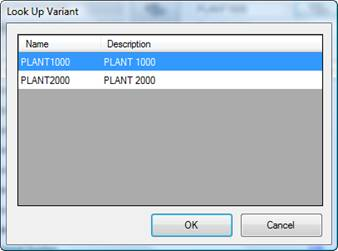
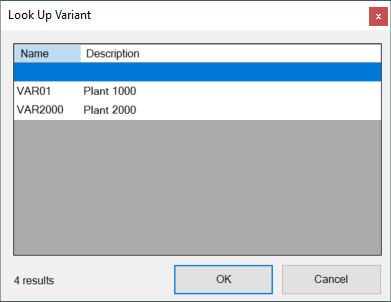
de pt.1

diff --git a/_includes/_content/de/xis-specific/query/varianten-anwenden.md b/_includes/_content/de/xis-specific/query/varianten-anwenden.md
@@ -1,9 +1,46 @@
-Um eine der hinterlegten Varianten anzuwenden, klicken Sie im Editor auf das Fernglas neben der Variantenangabe. 
-![Use-Variants-01](/img/content/Use-Variants-01.png){:class="img-responsive"}
 
-Ein entsprechendes Selektionsfenster öffnet sich, in dem eine Variante gewählt werden kann.
+### Varianten und Selektionen
 
-![Use-Variants-02](/img/content/Use-Variants-02.png){:class="img-responsive"}
+Die meisten Queries erlauben die Eingabe von Selektionen vor Ausführung der Query.
+Selektionen limitieren die Ausgabe der Query, sodass nur Daten die der Selektion entsprechen ausgegeben werden.
 
-Um die Variante wieder zu entfernen, klicken Sie auf den Button mit dem roten X.
+Eine Variante mit Selektionen kann in SAP im Selektionsbildschirm einer Query erstellt werden.
+Der Zweck einer Variante ist es, Selektionen zu speichern.
+Das minimiert die Eingabe von Selektionen, wenn Sie Queries ausführen.
+
+{: .box-note }
+**Hinweis:** Manuelle Selektionen und Varianten können kombiniert werden. Manuelle Selektionen überschreiben Selektionen in Varianten.
+
+![Report-Variants-Section](/img/content/Report-Variants-Selection.png){:class="img-responsive"}
+
+#### Eine Variante wählen
+
+1. Klicken Sie auf das kleine **[Fernglassymbol]** (1). Das Fenster "Look Up Variant" öffnet sich.
+![Query-Variant-02](/img/content/Query-Variant-02.png){:class="img-responsive"}
+2. Wählen Sie eine Variante aus der Liste der verfügbaren Varianten aus.
+3. Bestätigen Sie Ihre Eingabe mit **[OK]**.
+
+Um eine Variante zu entfernen, klicken Sie **[X]** (2).
+
+{: .box-tip }
+**Tipp:** Sie können eine Variante über einen Parameter in der Extraktions-URL dynamisieren. 
+
+#### Selektionen bearbeiten
+
+Dieser Abschnitt bezieht sich auf den Selektionsbildschirm von Queries in SAP.
+Einige Selektionsfelder haben nur technische Bezeichnungen und keine Beschreibungen.
+Um zu verstehen, welche Felder welchen Feldern in SAP entsprechen, prüfen Sie den Selektionsbildschirm in SAP. <br>
+Klicken Sie auf ein Selektionsfeld und drücken Sie die F1-Taste. Dadurch wird die technische Bezeichnung des Selektionsfelds angezeigt.
+
+1. Klicken Sie neben den Selektionen, die Sie bearbeiten möchten auf **[Edit]** (3). Das Fenster "Edit Range" öffnet sich.
+![Query-Selection-Parameters-02](/img/content/Selection-Options-Fill-02.png){:class="img-responsive"}
+2. Wählen Sie, ob die Selektion in der Extraktion inkludiert oder exkludiert werden soll (4).
+3. Wählen Sie einen Operator (*Equal*, *GreaterThan*, etc.) von der Dropdown-Liste *Option* (5). 
+4. Geben Sie die Selektion in den *Low* und *High* Feldern ein. Das *High* Feld ist nur aktiv, wenn *between* oder *not between* als Operator ausgewählt wurde.
+5. Klicken Sie auf **[OK]** (6), um die Selektion zu bestätigen.
+
+Um eine Selektion zu löschen, klicken Sie auf den Button in der linken unteren Ecke (7).
+
+{: .box-note }
+**Hinweis:** Um Variablen als Selektionsparameter zu verwenden, stellen Sie vor den Namen der Variable ein @-Symbol, z.B. `@lowthres`.
 

diff --git a/_includes/_content/de/sap-queries/einer-query.md b/_includes/_content/de/sap-queries/einer-query.md
@@ -1,21 +1,9 @@
-Erstellen Sie mit Hilfe des Designers eine neue Extraktion vom Typ Query. Der folgende Dialog öffnet sich. 
-
-![Define-Query-Extraction-Data-Source](/img/content/Define-Query-Extraction-Data-Source.png){:class="img-responsive list-img"}
-
-
-Klicken Sie auf den Suchen-Button, um eine Query zu suchen. Eine Query wird durch Angabe des Arbeitsbereiches, der Benutzergruppe und des Query-Namens eindeutig identifiziert. Selbstverständlich sind bei der Suche Wildcards erlaubt. Bestätigen Sie die Auswahl mit *OK*.
-
-![Look-Up-Query](/img/content/xu/xu_query_look-up.png){:class="img-responsive"}
-
-Im Hauptdialog werden nun die so genannten Select-Options angezeigt. Das sind die Selektionskriterien, die Sie auch sehen würden, wenn Sie die Query im SAP GUI starten.
-
-![Define-Query-Extraction-Data-Source-Selected](/img/content/Define-Query-Extraction-Data-Source-Selected.png){:class="img-responsive"}
-
-Sie müssen entweder eine Variante (siehe Abschnitt [Variante anwenden](./varianten-anwenden) ) wählen oder einen Wert für die maximale Anzahl der Zeilen (siehe Abschnitt [Extraktionseinstellungen](https://help.theobald-software.com/de/board-connector/sap-queries/query-extraktionseinstellungen) setzen.
-
-**Empfehlung:**
-1. beginnen Sie mit der Erstellung einer [Variante](https://help.sap.com/doc/saphelp_dm40/4.0/de-DE/c0/980389e58611d194cc00a0c94260a5/content.htm?no_cache=true), die Sie vorab im SAP GUI erstellen sowie testen
-2. im nächsten Schritt können über *Edit* [Select-Parameter](./select-options-fuellen) angepasst werden
-
-*Generell gilt, Selektionsparameter überschreiben die ausgewählte Variante. 
-Somit ist sicher gestellt, dass Kombinationsmöglichkeiten für die Selektion bestehen.*
+### Eine Query finden
+1. Klicken Sie auf das **[Fernglassymbol]**. Das Fenster "Look Up Query" öffnet sich.
+![SAPQuery-01](/img/content/SAPQuery-01.png){:class="img-responsive"}
+2. Suchen Sie nach **Query Name** oder **UserGroup** mit dem **[Lupensymbol]**, Sie können bei Bedarf Platzhalter (*) verwenden.
+![Query-Search](/img/content/Query-Search.png){:class="img-responsive" }
+3. Wählen Sie ein Element aus der Liste aus. 
+4. Klicken Sie auf **[OK]**, um die Auswahl zu bestätigen.
+5. Optional: Wenn die Query Varianten hat oder Sie neue Selektionen für die Extraktion erstellen möchten, siehe [Varianten und Selektionen](#varianten-und-selektionen).
+6. Geben Sie einen Wert für die maximale Anzahl der zu extrahierenden Zeilen an, siehe [Extraktionseinstellungen](./query-settings).

diff --git a/_includes/_content/en/sap-queries/variants-selections.md b/_includes/_content/en/sap-queries/variants-selections.md
@@ -2,17 +2,21 @@
 Most queries allow entering selections before query execution.
 Selections limit the result set of the Query so as to extract only records that match the selection.<br>
 
-A selection [variant](https://help.sap.com/doc/erp2005_ehp_07/6.07/en-US/6b/98f75305610114e10000000a174cb4/frameset.htm) can be created in SAP at the selection screen of a Query. The purpose of a variant is to save selection settings on your input screen. 
+A selection [variant](https://help.sap.com/doc/erp2005_ehp_07/6.07/en-US/6b/98f75305610114e10000000a174cb4/frameset.htm) can be created in SAP at the selection screen of a Query. The purpose of a variant is to save selection settings. 
 This minimizes the need to enter selections each time you run a query.
+
+{: .box-note }
+**Note:** Manual selections and variants can be combined. Manual selections overwrite any selections in the variant.
 
 ![Query-Variants-Selection](/img/content/Query-Variants-Selections.png){:class="img-responsive"}
 
 
 #### Choose a Variant
 
-1. Click the small **[Search]** button (binocular icon) (1). The window "Look Up Variant" opens.
+1. Click the small **[binocular icon]** (1). The window "Look Up Variant" opens.
 ![Query-Variant-02](/img/content/Query-Variant-02.png){:class="img-responsive"}
-2. Select a Variant from the list of available variants. Confirm your input with **[OK]**.
+2. Select a Variant from the list of available variants. 
+3. Confirm your input with **[OK]**.
 
 To remove the variant, click the **[X]** button (2).<br>
 

diff --git a/_includes/_content/de/xis-specific/query/queries-suchen-und-zuweisen.md b/_includes/_content/de/xis-specific/query/queries-suchen-und-zuweisen.md
@@ -1,13 +1,10 @@
-### Eine Query Extraktion definieren
-1. Klicken Sie doppelt auf das **[Icon]**. Das Fenster "Extract SAP ERP Queries" öffnet sich.
-2. Klicken Sie auf das **[Lupensymbol]**
+### Eine Query finden
+1. Doppelklicken Sie auf die Komponente. Das Fenster "Extract SAP ERP Queries" öffnet sich.
+2. Klicken Sie auf das **[Fernglassymbol]**. Das Fenster "Look Up Query" öffnet sich.
 ![Query-Defining](/img/content/Query-DefiningExtraction.png){:class="img-responsive" }
-Das Suchfenster "Look Up Query" öffnet sich.
-
-### Eine Report Extraktion finden
-![Query-Search](/img/content/Query-Search.png){:class="img-responsive"}
-
-3. Suchen Sie nach **Query Name** oder **UserGroup** mit dem **[Lupensymbol]**, Sie können bei Bedarf Platzhalter (*) verwenden
-4. Wählen Sie ein Element aus der Liste aus.
-5. Klicken Sie auf **[OK]**, um die Auswahl zu bestätigen. 
-
+3. Suchen Sie nach **Query Name** oder **UserGroup** mit dem **[Lupensymbol]**, Sie können bei Bedarf Platzhalter (*) verwenden.
+![Query-Search](/img/content/Query-Search.png){:class="img-responsive" }
+4. Wählen Sie ein Element aus der Liste aus. 
+5. Klicken Sie auf **[OK]**, um die Auswahl zu bestätigen.
+6. Optional: Wenn die Query Varianten hat oder Sie neue Selektionen für die Extraktion erstellen möchten, siehe [Varianten und Selektionen](#varianten-und-selektionen).
+7. Geben Sie einen Wert für die maximale Anzahl der zu extrahierenden Zeilen an, siehe [Extraktionseinstellungen](./query-settings).

diff --git a/_includes/_content/de/xis-specific/query/query-settings.md b/_includes/_content/de/xis-specific/query/query-settings.md
@@ -1,4 +1,4 @@
-### Extraction Settings
+### Xtract IS Query Preferences
 
 Klicken Sie im Hauptfenster der Komponente auf *Settings*. Das Fenster “Xtract IS Query Preferences” öffnet sich.
 
